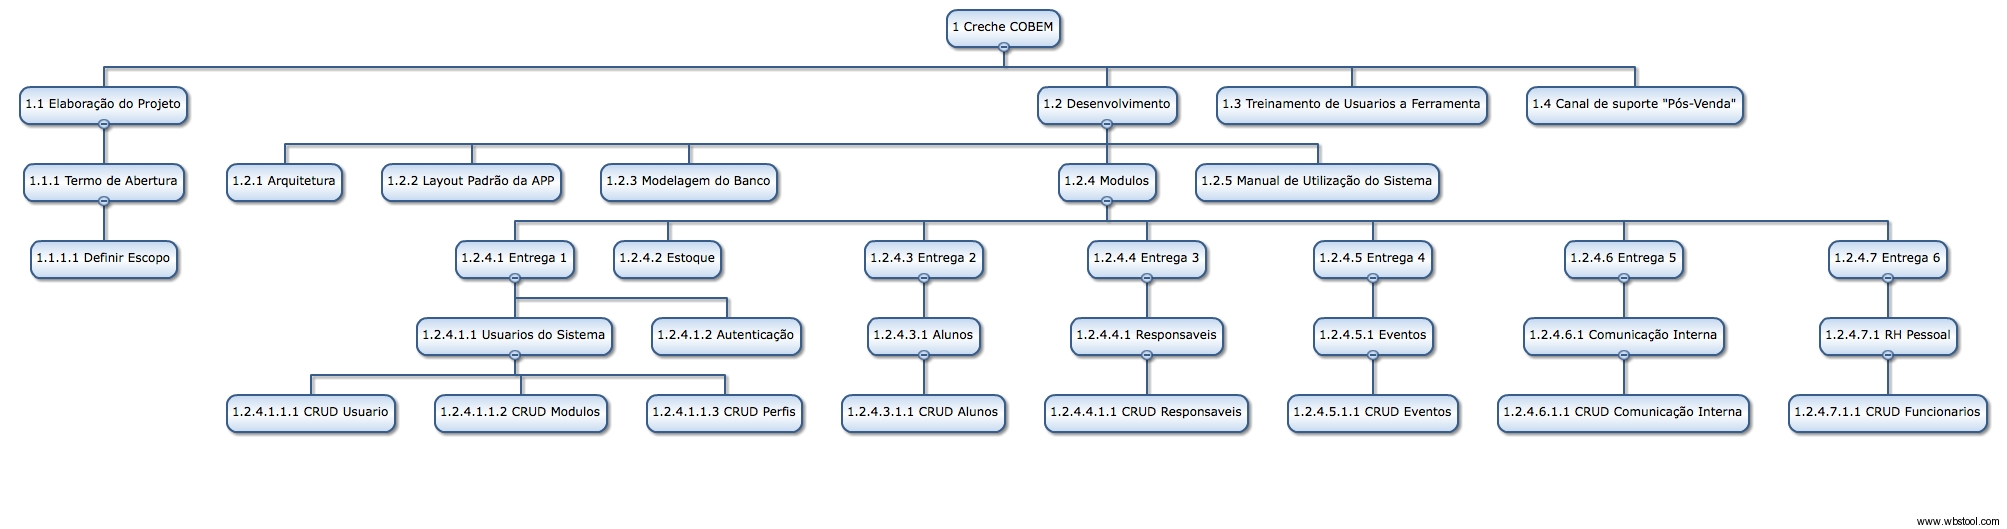
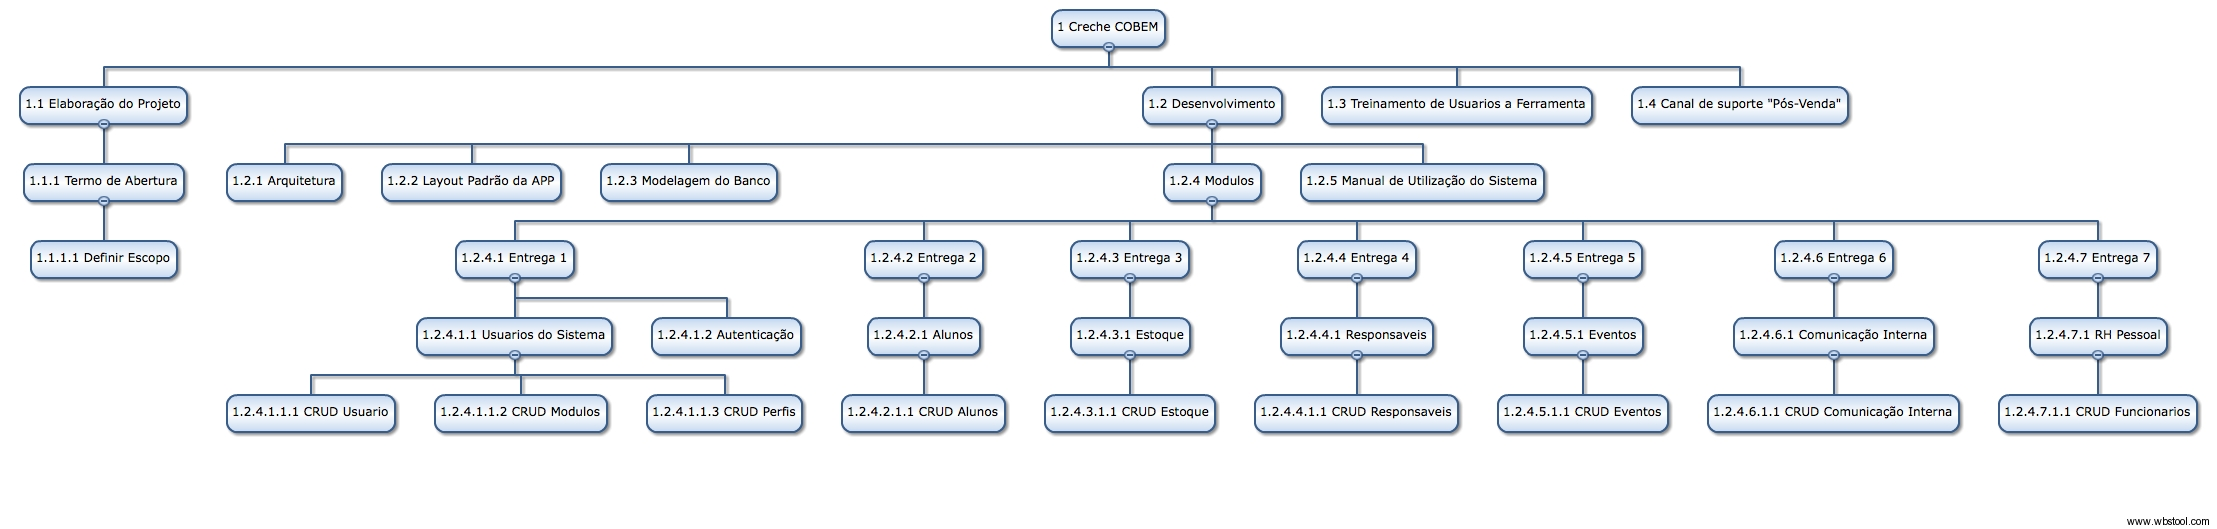
add module auth controller login
Add formulário de login e controle de autenticação
Update EAP
Update TeamUnifacs

diff --git a/app/templates/404.html b/app/templates/404.html
@@ -1,4 +1,67 @@
-{% extends "base.html" %}
-{% block content %}
-	<h1>404, página não encontrada</h1>
-{% endblock %}
+<!doctype html>
+<html lang="pt-BR">
+	<head>
+		<meta charset="UTF-8">
+		<meta name="viewport" content="width=device-width, initial-scale=1.0"/>
+		<meta http-equiv="X-UA-Compatible" content="IE=edge,chrome=1"/>
+		{% if title %}
+			<title>{{title}} - Sistema de Gerenciamento da Creche COBEM</title>
+		{% else %}
+			<title>Sistema de Gerenciamento da Creche COBEM</title>
+		{% endif %}
+		<link rel="stylesheet" type="text/css" href="{{ url_for('static', filename='css/bootstrap/bootstrap.min.css') }}"/>
+		<!-- <script src="{{ url_for('static', filename='js/demo-rtl.js') }}"></script> -->
+		<link rel="stylesheet" type="text/css" href="{{ url_for('static', filename='css/libs/font-awesome.css') }}"/>
+		<link rel="stylesheet" type="text/css" href="{{ url_for('static', filename='css/libs/nanoscroller.css') }}"/>
+		 
+		<link rel="stylesheet" type="text/css" href="{{ url_for('static', filename='css/compiled/layout.css') }}"/>
+		<link rel="stylesheet" type="text/css" href="{{ url_for('static', filename='css/compiled/elements.css') }}"/>
+		 
+		<link rel="stylesheet" href="{{ url_for('static', filename='css/libs/fullcalendar.css') }}" type="text/css"/>
+		<link rel="stylesheet" href="{{ url_for('static', filename='css/libs/fullcalendar.print.css') }}" type="text/css" media="print"/>
+		<link rel="stylesheet" href="{{ url_for('static', filename='css/compiled/calendar.css') }}" type="text/css" media="screen"/>
+		<link rel="stylesheet" href="{{ url_for('static', filename='css/libs/morris.css') }}" type="text/css"/>
+		<link rel="stylesheet" href="{{ url_for('static', filename='css/libs/daterangepicker.css') }}" type="text/css"/>
+		<link rel="stylesheet" href="{{ url_for('static', filename='css/libs/jquery-jvectormap-1.2.2.css') }}" type="text/css"/>
+		 
+		<link type="image/x-icon" href="{{ url_for('static', filename='favicon.png') }}" rel="shortcut icon"/>
+		 
+		<link href='//fonts.googleapis.com/css?family=Open+Sans:400,600,700,300|Titillium+Web:200,300,400' rel='stylesheet' type='text/css'>
+		<!--[if lt IE 9]>
+				<script src="{{ url_for('static', filename='js/html5shiv.js') }}"></script>
+				<script src="{{ url_for('static', filename='js/respond.min.js') }}"></script>
+			<![endif]-->
+	</head>
+	<body id="error-page">
+		<div class="container">
+			<div class="row">
+				<div class="col-xs-12">
+					<div id="error-box">
+						<div class="row">
+							<div class="col-xs-12">
+								<div id="error-box-inner">
+									<img src="{{ url_for('static', filename='img/error-404-v3.png') }}" alt="Você já viu esta página?"/>
+								</div>
+								<h1>ERROR 404</h1>
+								<p>
+								Página não encontrada.<br/>
+								<!-- If you find this page, let us know. -->
+								</p>
+								<p>
+								Volte para a página <a href="/">inicial</a>.
+								</p>
+							</div>
+						</div>
+					</div>
+				</div>
+			</div>
+		</div>
+		
+		<script src="{{ url_for('static', filename='js/jquery.js') }}"></script>
+		<script src="{{ url_for('static', filename='js/bootstrap.js') }}"></script>
+		
+		
+		<script src="{{ url_for('static', filename='js/scripts.js') }}"></script>
+		
+	</body>
+</html>

diff --git a/app/templates/auth/login/login.html b/app/templates/auth/login/login.html
@@ -46,15 +46,10 @@
 										</div>
 									</header>
 									<div id="login-box-inner">
-										<form role="form" action="">
-											<div class="input-group">
-												<span class="input-group-addon"><i class="fa fa-user"></i></span>
-												<input class="form-control" type="text" placeholder="Usuário" name="usuario">
-											</div>
-											<div class="input-group">
-												<span class="input-group-addon"><i class="fa fa-key"></i></span>
-												<input type="senha" class="form-control" placeholder="Senha">
-											</div>
+										{% from "auth/login/_formhelpers.html" import render_field %}
+										<form role="form" action="" method="post">
+											{{ render_field(form.login, placeholder='Usuário')}}
+                                			{{ render_field(form.senha, placeholder='Senha') }}											
 											<div id="remember-me-wrapper">
 												<div class="row">
 													<div class="col-xs-6">

diff --git a/app/templates/base.html b/app/templates/base.html
@@ -202,11 +202,11 @@
 								<li><a href="user-profile.html"><i class="fa fa-user"></i>Profile</a></li>
 								<li><a href="#"><i class="fa fa-cog"></i>Settings</a></li>
 								<li><a href="#"><i class="fa fa-envelope-o"></i>Messages</a></li>
-								<li><a href="#"><i class="fa fa-power-off"></i>Logout</a></li>
+								<li><a href="{{ url_for('auth.logout_view') }}"><i class="fa fa-power-off"></i>Logout</a></li>
 							</ul>
 						</li>
 						<li class="hidden-xxs">
-							<a class="btn">
+							<a class="btn" href="{{ url_for('auth.logout_view') }}">
 								<i class="fa fa-power-off"></i>
 							</a>
 						</li>

diff --git a/app/templates/auth/login/_formhelpers.html b/app/templates/auth/login/_formhelpers.html
@@ -1,0 +1,20 @@
+{% macro render_field(field) %}
+	<div class="input-group">	
+		<span class="input-group-addon"><i class="fa {% if field.name == 'login' %}fa-user{% elif field.name == 'senha' %}fa-key{% else %}{% endif %}"></i></span>
+		{{ field(class='form-control',**kwargs)|safe }}
+		
+		  	<ul class=errors>
+		    	
+		      		<li></li>
+		    	
+		    </ul>	    
+	</div>
+	{% if field.errors %}
+		<div class="alert alert-danger">
+			<i class="fa fa-times-circle fa-fw fa-lg"></i>
+			{% for error in field.errors %}
+				{{ gettext(error) }}<br>
+			{% endfor %}
+		</div>
+	{% endif %}
+{% endmacro %}

diff --git a/app/templates/_formhelpers.html b/app/templates/_formhelpers.html
@@ -1,0 +1,13 @@
+{% macro render_field(field) %}
+<div class="form-group">
+  {{ field.label }}
+  {{ field(class='form-control',**kwargs)|safe }}
+  {% if field.errors %}
+    <ul class=errors>
+    {% for error in field.errors %}
+      <li>{{ gettext(error) }}</li>
+    {% endfor %}
+    </ul>
+  {% endif %}
+</div>
+{% endmacro %}

diff --git a/app/__init__.py b/app/__init__.py
@@ -1,13 +1,23 @@
 # -*- coding: utf-8 -*-
-from flask import Flask, render_template
+from flask import Flask, render_template, redirect, url_for
+from flask.ext.login import LoginManager, login_required
+from flask.ext import login
+from flask.ext.sqlalchemy import SQLAlchemy
+from flask.ext.babel import Babel, lazy_gettext, gettext, refresh, ngettext
 #import app.modules.usuario.models
 #import app.modules.usuario.controller
 
 app = Flask(__name__)
 app.config.from_object('config')
+app.config['BABEL_DEFAULT_LOCALE'] = 'pt_BR'
+""" Translate """
+babel = Babel(app)
+db = SQLAlchemy()
+db.init_app(app)
 
 @app.route('/')
 @app.route('/index.html')
+@login_required
 def inicio():
   return render_template('index.html')
 
@@ -15,7 +25,7 @@ def inicio():
 @app.route('/teamunifacs')
 def team_unifacs_view():
 	membros = [
-		('robert-300.jpg', u'Eduardo Júnior', u'Analista e Desenvolvedor', u'Irecê - BA', u'ej@eduardojunior.com', 
+		('eduardo.jpg', u'Eduardo Júnior', u'Analista e Desenvolvedor', u'Irecê - BA', u'ej@eduardojunior.com', 
 			'(74) 9932-6161'),
 		('robert-300.jpg', u'Eduardo Júnior', u'Analista e Desenvolvedor', u'Irecê - BA', u'ej@eduardojunior.com', 
 			'(74) 9932-6161'),
@@ -30,6 +40,19 @@ def team_unifacs_view():
 	]		
 	return render_template('teamunifacs.html', membros=membros)
 
+@app.route('/install')
+def install():
+	db.drop_all()
+	db.create_all()	
+	from app.modules.adm.models.usuario import Usuario
+	usuario = Usuario()
+	usuario.nome = 'admin'
+	usuario.login = 'admin'
+	usuario.set_senha('admin')
+	db.session.add(usuario)
+	db.session.commit()
+	return "install..."
+
 @app.errorhandler(404)
 def not_found(error):
     return render_template('404.html'), 404
@@ -42,6 +65,24 @@ app.register_blueprint(modulo_adm)
 
 from app.modules.auth.controllers import mod as modulo_auth
 app.register_blueprint(modulo_auth)
+
+def init_login():
+	from app.modules.adm.models.usuario import Usuario
+	login_manager = login.LoginManager()
+	login_manager.setup_app(app)
+	# Create user loader function
+	@login_manager.user_loader
+	def load_user(user_id):
+		return db.session.query(Usuario).get(user_id)
+
+	@login_manager.unauthorized_handler
+	def unauthorized():
+		''' redirecionar para tela de login '''		
+		return redirect(url_for('auth.login_view'))
+
+
+""" INICIANDO LOGIN """
+init_login()
 
 # Later on you'll import the other blueprints the same way:
 #from app.comments.views import mod as commentsModule

diff --git a/app/modules/adm/models/usuario.py b/app/modules/adm/models/usuario.py
@@ -2,8 +2,9 @@
 from flask import Flask
 from flask.ext.sqlalchemy import SQLAlchemy
 from datetime import datetime, date
-
-db = SQLAlchemy()
+from app import db
+from werkzeug.security import generate_password_hash, check_password_hash
+#db = SQLAlchemy()
 
 '''perfis = db.Table('perfis',
     db.Column('usuario_id', db.Integer, db.ForeignKey('Usuario.id')),
@@ -13,7 +14,7 @@ db = SQLAlchemy()
 
 class Usuario(db.Model):
 	id = db.Column(db.Integer, primary_key=True)
-	data_cadastro = db.Column(db.DateTime)
+	data_cadastro = db.Column(db.DateTime, default = datetime.utcnow())
 	nome = db.Column(db.String(100))
 	foto = db.Column(db.String(100))
 	email = db.Column(db.String(20), unique=True)
@@ -21,6 +22,26 @@ class Usuario(db.Model):
 	senha = db.Column(db.String(15))	
 	ativo = db.Column(db.SmallInteger, default = 1)
 	#perfis = db.relationship('Perfil', secondary=perfis, backref=db.backref('usuarios', lazy='dynamic'))
+	def set_senha(self, senha):
+		self.senha = generate_password_hash(senha)
+
+	def check_senha(self, senha):
+		return check_password_hash(self.senha, senha)
+		
+	def is_authenticated(self):
+		return True	
+
+	def is_active(self):
+		return True
+
+	def is_anonymous(self):
+		return False
+
+	def get_id(self):
+		return self.id
+
+	def __unicode__(self):
+		return self.login
 
 '''class Perfil(db.Model):
 	id = db.Column(db.Integer, primary_key=True)

diff --git a/app/modules/auth/controllers/login.py b/app/modules/auth/controllers/login.py
@@ -1,9 +1,24 @@
 # -*- coding: utf-8 -*-
-from flask import render_template, request
+from flask import render_template, request, redirect, url_for
 #from app.modules.auth.controllers import mod
 from . import mod
+from app.modules.auth.forms.login import LoginForm
+from flask.ext import login
+from flask.ext.login import login_required
 
 @mod.route('/login', methods=('GET', 'POST'))
 @mod.route('/login/', methods=('GET', 'POST'))
 def login_view():	
-	return render_template('auth/login/login.html')
+	form = LoginForm(request.form)
+	if request.method == 'POST' and form.validate():
+		user = form.get_user()
+		login.login_user(user)
+		return redirect('/')
+	return render_template('auth/login/login.html', active_page='login', form=form)
+
+@mod.route('/logout')
+@mod.route('/logout/')
+@login_required
+def logout_view():
+	login.logout_user()
+	return redirect(url_for('.login_view'))

diff --git a/app/modules/auth/forms/login.py b/app/modules/auth/forms/login.py
@@ -2,3 +2,18 @@
 from flask.ext.wtf import Form
 from wtforms import Form, TextField, validators, TextAreaField, fields, PasswordField, SelectField, FileField
 from flask.ext.wtf.file import FileField, FileRequired, FileAllowed
+from app.modules.adm.models.usuario import Usuario
+from app import db
+import md5
+
+class LoginForm(Form):
+	login = TextField(u'Login', [validators.Required()])
+	senha = PasswordField(u'Senha', [validators.Required()])
+	def validate_login(self, field):
+		user = self.get_user()		
+		if user is None:			
+			raise validators.ValidationError(u'Usuário e\ou Senha Inválidos')		
+		if not user.check_senha(self.senha.data):
+			raise validators.ValidationError(u'Usuário e\ou Senha Inválidos')
+	def get_user(self):
+		return db.session.query(Usuario).filter_by(login=self.login.data).first()

diff --git a/config.py b/config.py
@@ -18,3 +18,6 @@ RECAPTCHA_USE_SSL = False
 RECAPTCHA_PUBLIC_KEY = '6LeYIbsSAAAAACRPIllxA7wvXjIE411PfdB2gt2J'
 RECAPTCHA_PRIVATE_KEY = '6LeYIbsSAAAAAJezaIq3Ft_hSTo0YtyeFG-JgRtu'
 RECAPTCHA_OPTIONS = {'theme': 'white'}
+LANGUAGES = {
+    'pt_BR': 'Portugues do brasil',    
+}
